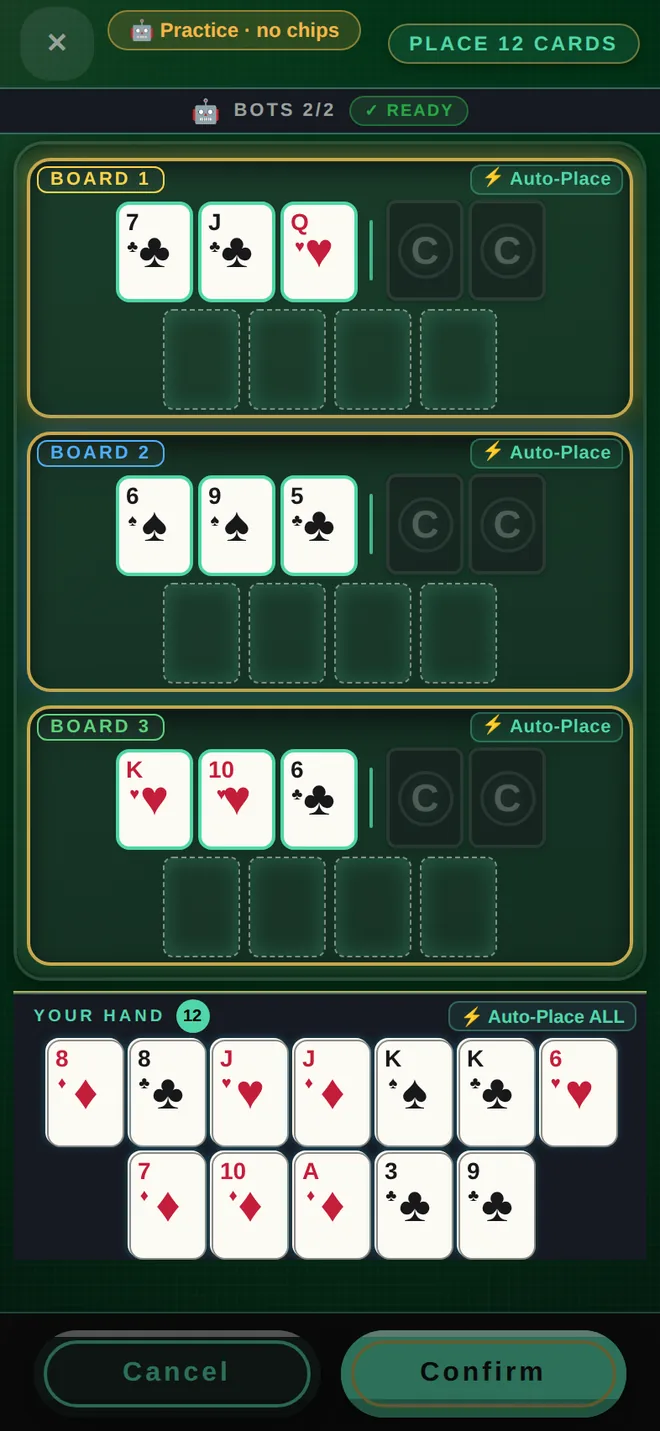
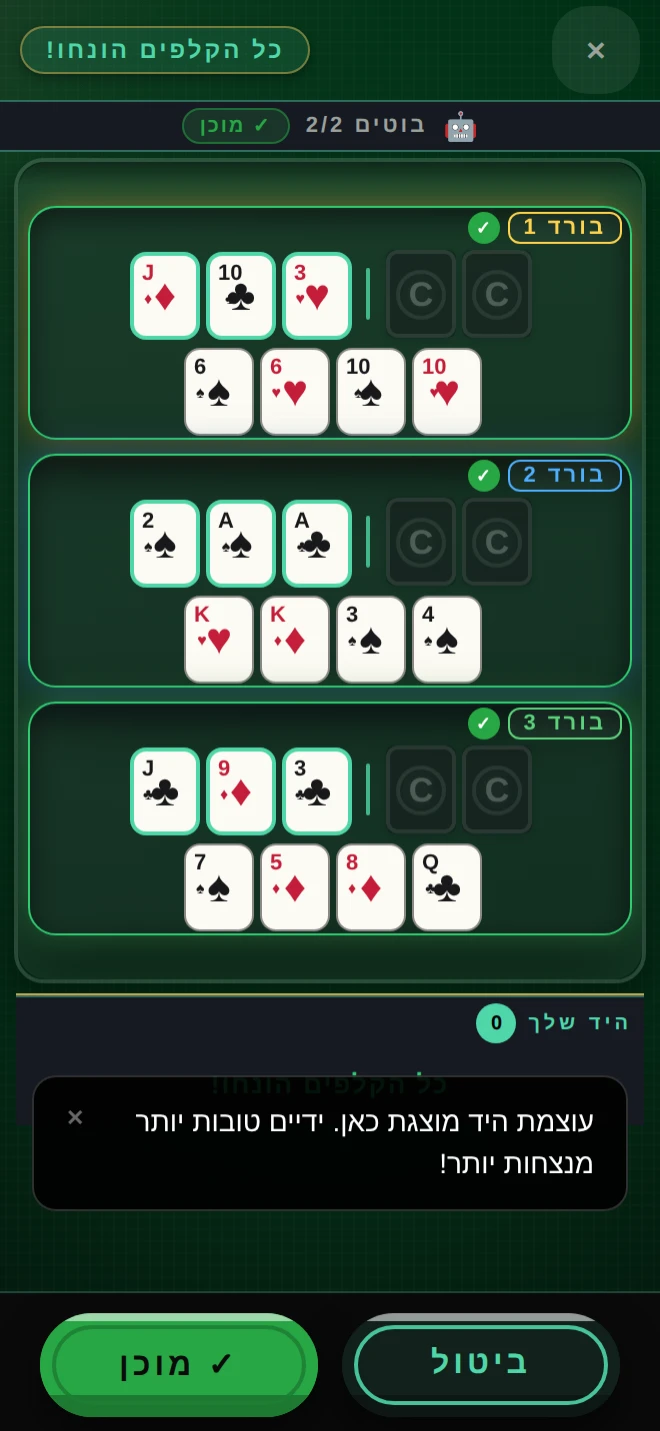
i18n: re-shoot landing shots in Hebrew; close two placement leaks
The landing game screenshots now show the Hebrew game (getLanguage un-forced):
re-shot game-boards.webp (3P, boards filled) and game-reveal.webp at 660x1431
in he-IL, replacing the English-chrome shots. Updated the landing comment that
claimed "chrome in English regardless of locale" (no longer true).

Also close two placement-screen English leaks found in the boards shot:
- PlayerHand empty state 'All cards placed!' → t().allPlaced
- TimerController tooltip 'Time out = cards placed randomly' → t().timeoutTooltip (new key)

he/en parity 212/212; tsc clean. Card sizes / cue / arc / economy / flags untouched.

Claude-Session: https://claude.ai/code/session_01Y1AjCCPiBTGjZTEkgaNTsq

diff --git a/utils/i18n.ts b/utils/i18n.ts
@@ -300,6 +300,7 @@ interface Translations {
   revealTip1: string;
   revealTip2: string;
   revealTip3: string;
+  timeoutTooltip: string;
   // Home CTAs + teaching line (dedicated so EN design text is preserved verbatim)
   homePlayOnline: string;
   homePlayOnlineSub: string;
@@ -604,6 +605,7 @@ const he: Translations = {
   revealTip1: 'עכשיו ראה מה יש ליריב בכל בורד.',
   revealTip2: 'כל קלף משנה את היד המנצחת!',
   revealTip3: 'ירוק = ניצחון, אדום = הפסד. שים לב לבונוס COMPLETE!',
+  timeoutTooltip: 'נגמר הזמן = הקלפים יונחו אקראית',
   homePlayOnline: 'שחק אונליין',
   homePlayOnlineSub: 'שחקנים אמיתיים · שולחנות בוט מיידיים',
   homePracticeVsBots: 'תרגול מול בוטים',
@@ -856,6 +858,7 @@ const en: Translations = {
   revealTip1: 'Now see what your opponent has on each board.',
   revealTip2: 'Each card changes the winning hand!',
   revealTip3: 'Green = win, Red = loss. Watch for COMPLETE bonus!',
+  timeoutTooltip: 'Time out = cards placed randomly',
   homePlayOnline: 'Play Online',
   homePlayOnlineSub: 'Real players · instant bot tables',
   homePracticeVsBots: 'Practice vs bots',

diff --git a/public/landing.html b/public/landing.html
@@ -181,10 +181,11 @@
     </div>
 
     <!-- SHOW THE GAME — the real, current app (a fresh web export of this branch). The three-board
-         screen is the one image that explains the product without a sentence. The app renders this
-         chrome in English regardless of locale (caps_language not applied yet), so the SAME true
-         screenshot serves both languages; the caption below it is translated. Placed before the CTA
-         so a visitor sees the game before they decide. Small + eager (above the fold, ~51KB). -->
+         screen is the one image that explains the product without a sentence. VAMOS FINISH-HEBREW
+         2026-09-02: the app now renders in the visitor's language (getLanguage un-forced), so these
+         shots are re-shot in HEBREW to match the primary caps.ftable.co.il audience — the caption
+         below each is also translated. Placed before the CTA so a visitor sees the game before they
+         decide. Small + eager (above the fold). -->
     <figure class="shot">
       <img src="shots/game-boards.webp" width="660" height="1431" fetchpriority="high" decoding="async"
            alt="CAPS Poker game screen: three boards, four cards on each, all in play at once">

diff --git a/components/TimerController.tsx b/components/TimerController.tsx
@@ -10,6 +10,7 @@ import Animated, {
 } from 'react-native-reanimated';
 import { rf } from '../utils/responsive';
 import { KILL_game } from '../utils/animationKill';
+import { t } from '../utils/i18n';
 
 // Circular timer component — depleting ring on web, pulsing circle on native
 function CircularTimer({ timeLeft, size, color, pulsing }: { timeLeft: number; size: number; color: string; pulsing: boolean }) {
@@ -151,7 +152,7 @@ export function TimerController({ countdown, total: _total, isActive, firstFinis
       </TouchableOpacity>
       {tooltipVisible && (
         <View style={tcStyles.tooltip}>
-          <Text style={tcStyles.tooltipText}>Time out = cards placed randomly</Text>
+          <Text style={tcStyles.tooltipText}>{t().timeoutTooltip}</Text>
         </View>
       )}
     </View>

diff --git a/components/PlayerHand.tsx b/components/PlayerHand.tsx
@@ -364,7 +364,7 @@ export default function PlayerHand({ cards, selectedCardIds = [], onSelectCard, 
         </View>
       ) : (
         <View style={styles.emptyRow}>
-          <Text style={styles.emptyText}>All cards placed!</Text>
+          <Text style={styles.emptyText}>{t().allPlaced}</Text>
         </View>
       )}
     </View>
